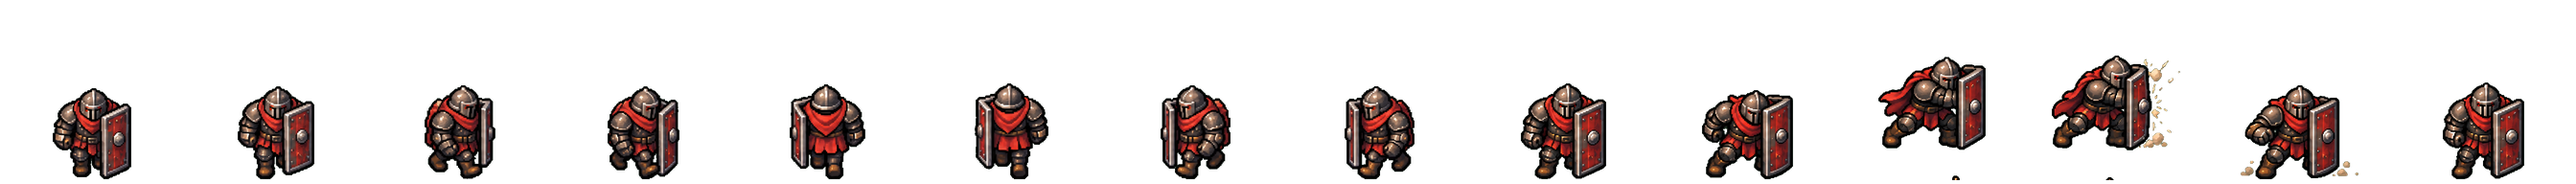
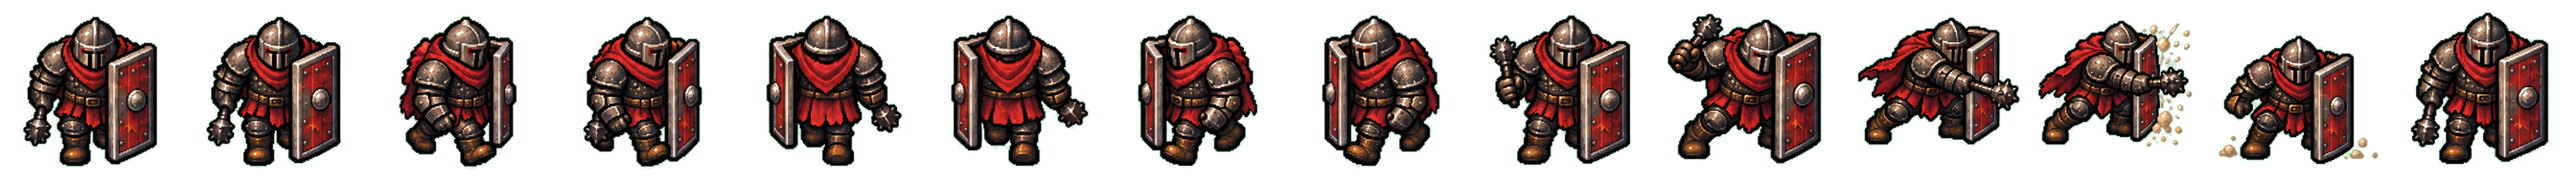
Redesign all character sprites and add P1 action animations

diff --git a/src/render.ts b/src/render.ts
@@ -13,7 +13,7 @@ export class BattleScene extends Phaser.Scene{
  keys=new Set<string>();acc=0;onTick:()=>void;lastUI=0;touch={x:0,y:0};moveTarget?:Point;moveTargetSlot=0;
  online=false;remote=false;localSlot=0;onOnlineInput?:(input:{x:number;y:number})=>void;onOnlineCommand?:(action:Parameters<Simulation['command']>[0])=>void;onOnlineSelect?:(index:number)=>void;
  constructor(sim:Simulation,onTick:()=>void){super('battle');this.sim=sim;this.onTick=onTick;}
- preload(){this.load.image('fixed-map-art','assets/terrain/fixed-map-art.png');for(let player=1;player<=3;player++)this.load.spritesheet(`unit-worker-p${player}`,`assets/characters/animated/worker-p${player}.png`,{frameWidth:192,frameHeight:192});for(const key of ['infantry','heavy','archer','cavalry','air','boss'])this.load.spritesheet(`unit-${key}`,`assets/characters/animated/enemy-${key}.png`,{frameWidth:192,frameHeight:192});}
+ preload(){this.load.image('fixed-map-art','assets/terrain/fixed-map-art.png');for(let player=1;player<=3;player++)this.load.spritesheet(`unit-worker-p${player}`,`assets/characters/animated/worker-p${player}.png`,{frameWidth:192,frameHeight:192});for(const action of ['walk','build','repair'])this.load.spritesheet(`unit-worker-p1-${action}-v2`,`assets/characters/animated/worker-p1-${action}-v2.png`,{frameWidth:160,frameHeight:160});for(const key of ['infantry','heavy','archer','cavalry','air','boss'])this.load.spritesheet(`unit-${key}`,`assets/characters/animated/enemy-${key}.png`,{frameWidth:192,frameHeight:192});}
  create(){this.world=this.add.graphics().setDepth(0);this.actors=this.add.graphics().setDepth(1);this.effects=this.add.graphics().setDepth(3);this.drawMap();
   this.input.keyboard!.on('keydown',(e:KeyboardEvent)=>{if(['INPUT','SELECT','TEXTAREA'].includes((e.target as HTMLElement)?.tagName))return;this.keys.add(e.code);if(e.repeat)return;
    if(['Space','Enter','ArrowUp','ArrowDown','ArrowLeft','ArrowRight'].includes(e.code))e.preventDefault();
@@ -89,8 +89,8 @@ export class BattleScene extends Phaser.Scene{
  bar(g:Phaser.GameObjects.Graphics,x:number,y:number,w:number,h:number,fraction:number,color:number){g.fillStyle(0x11231d,.9).fillRoundedRect(x-1,y-1,w+2,h+2,2);g.fillStyle(color).fillRect(x,y,w*Math.max(0,Math.min(1,fraction)),h);}
  unitImage(key:string,x:number,y:number,height:number,flip=false,frame=0,nominal=192){let image=this.unitImages[this.unitIndex++];if(!image){image=this.add.image(x,y,key,frame).setOrigin(.5,1);this.unitImages.push(image);}else image.setTexture(key,frame);const scale=height/nominal;image.setPosition(x,y).setScale(scale).setFlipX(flip).setAngle(0).setAlpha(1).clearTint().setDepth(1.2+y/(SIZE*TILE)*.4).setVisible(true);return image;}
  walkPose(image:Phaser.GameObjects.Image,facing:Facing,strength=1,phaseTime=this.sim.time){const gait=Math.sin(phaseTime*Math.PI*7),horizontal=facing==='left'||facing==='right';image.y-=Math.abs(gait)*2*strength;if(horizontal)image.x+=gait*.5*strength*(facing==='right'?1:-1);}
- enemyImage(e:Enemy){const s=this.sim,d=ENEMIES[e.kind],target=s.target(e.target),last=this.enemyMotion.get(e.id)??{x:e.x,y:e.y,facing:'down' as Facing,movingUntil:-Infinity},dx=e.x-last.x,dy=e.y-last.y,positionMoving=Math.hypot(dx,dy)>.0005,movingUntil=positionMoving?s.time+.14:last.movingUntil,moving=positionMoving||s.time<movingUntil,attack=enemyAttackFrame(s.time,e.next,e.wind,d.wind,d.interval);let facing=last.facing;if(attack!==null&&target)facing=facingFromInput({x:target.x-e.x,y:target.y-e.y},facing);else if(positionMoving)facing=facingFromInput({x:dx,y:dy},facing);this.enemyMotion.set(e.id,{x:e.x,y:e.y,facing,movingUntil});const heights:Record<string,number>={infantry:51,heavy:55,archer:52,cavalry:64,air:58,boss1:82,boss2:85,boss3:91,boss4:98,boss5:112},nominals:Record<string,number>={infantry:94,heavy:100,archer:102,cavalry:88,air:76,boss:92},key=d.boss?'boss':e.kind,phaseTime=s.time+e.id*.017,step=moving?walkingFrame(phaseTime,{x:1,y:0}):0,frame=attack===null?directionFrame(facing,step):8+attack,flip=attack!==null&&!!target&&target.x<e.x,image=this.unitImage(`unit-${key}`,e.x*TILE,e.y*TILE+18,heights[e.kind],flip,frame,nominals[key]);if(attack===null&&moving)this.walkPose(image,facing,e.kind==='air'?1.15:e.kind==='cavalry'?.8:1,phaseTime);if(attack===null&&moving&&e.kind!=='air'){const trail=facing==='right'?-1:facing==='left'?1:0;this.actors.fillStyle(0xcbb477,.3).fillEllipse(e.x*TILE+trail*10,e.y*TILE+16,step?8:4,2.6);}if(e.flash>s.time)image.setTintFill(0xffe1c5);}
- workerImage(p:Worker,index:number){const s=this.sim,x=p.x*TILE,y=p.y*TILE,last=this.workerMotion.get(p.id)??{x:p.x,y:p.y,facing:this.workerFacing[index],movingUntil:-Infinity},dx=p.x-last.x,dy=p.y-last.y,inputMoving=Math.hypot(p.input.x,p.input.y)>.001,positionMoving=Math.hypot(dx,dy)>.0005,direction=inputMoving?p.input:positionMoving?{x:dx,y:dy}:{x:0,y:0},facing=facingFromInput(direction,last.facing),movingUntil=positionMoving||inputMoving?s.time+.14:last.movingUntil,moving=!p.task&&p.hp>0&&(inputMoving||positionMoving||s.time<movingUntil),step=moving?walkingFrame(s.time,{x:1,y:0}):0;this.workerFacing[index]=facing;this.workerMotion.set(p.id,{x:p.x,y:p.y,facing,movingUntil});const taskFrame=p.task?(p.task.type==='build'?8:12)+loopFrame(s.time,8,4):directionFrame(facing,step),flip=!!p.task&&facing==='left',image=this.unitImage(`unit-worker-p${index+1}`,x,y+19,58,flip,taskFrame,index===0?123:121);if(moving)this.walkPose(image,facing);if(moving){const trail=facing==='right'?-1:facing==='left'?1:0;this.actors.fillStyle(0xd6bd78,.32).fillEllipse(x+trail*11,y+15,step?9:5,3);}if(p.hp<=0)image.setTint(0x77736d).setAlpha(.72);if(s.time>=0&&p.hurtUntil>s.time)image.setTintFill(0xffd1bd);if(s.invincible)this.actors.lineStyle(2,0xf9e6b2,.7+Math.sin(s.time*8)*.2).strokeCircle(x,y-4,27);this.actors.fillStyle(0x16271f,.88).fillRoundedRect(x-15,y-49,30,13,4);this.actors.lineStyle(1.5,p.color,.9).strokeRoundedRect(x-15,y-49,30,13,4);this.labelWorker(x,y-42.5,index);if(p.hp<=0)this.textLabel(x,y+31,'待救援 ◆80','#ffe0a1',10);}
+ enemyImage(e:Enemy){const s=this.sim,d=ENEMIES[e.kind],target=s.target(e.target),last=this.enemyMotion.get(e.id)??{x:e.x,y:e.y,facing:'down' as Facing,movingUntil:-Infinity},dx=e.x-last.x,dy=e.y-last.y,positionMoving=Math.hypot(dx,dy)>.0005,movingUntil=positionMoving?s.time+.14:last.movingUntil,moving=positionMoving||s.time<movingUntil,attack=enemyAttackFrame(s.time,e.next,e.wind,d.wind,d.interval);let facing=last.facing;if(attack!==null&&target)facing=facingFromInput({x:target.x-e.x,y:target.y-e.y},facing);else if(positionMoving)facing=facingFromInput({x:dx,y:dy},facing);this.enemyMotion.set(e.id,{x:e.x,y:e.y,facing,movingUntil});const heights:Record<string,number>={infantry:51,heavy:55,archer:52,cavalry:64,air:58,boss1:82,boss2:85,boss3:91,boss4:98,boss5:112},nominals:Record<string,number>={infantry:160,heavy:160,archer:160,cavalry:170,air:140,boss:165},key=d.boss?'boss':e.kind,phaseTime=s.time+e.id*.017,step=moving?walkingFrame(phaseTime,{x:1,y:0}):0,frame=attack===null?directionFrame(facing,step):8+attack,flip=attack!==null&&!!target&&target.x<e.x,image=this.unitImage(`unit-${key}`,e.x*TILE,e.y*TILE+18,heights[e.kind],flip,frame,nominals[key]);if(attack===null&&moving&&e.kind==='air')this.walkPose(image,facing,.7,phaseTime);if(attack===null&&moving&&e.kind!=='air'){const trail=facing==='right'?-1:facing==='left'?1:0;this.actors.fillStyle(0xcbb477,.3).fillEllipse(e.x*TILE+trail*10,e.y*TILE+16,step?8:4,2.6);}if(e.flash>s.time)image.setTintFill(0xffe1c5);}
+ workerImage(p:Worker,index:number){const s=this.sim,x=p.x*TILE,y=p.y*TILE,last=this.workerMotion.get(p.id)??{x:p.x,y:p.y,facing:this.workerFacing[index],movingUntil:-Infinity},dx=p.x-last.x,dy=p.y-last.y,inputMoving=Math.hypot(p.input.x,p.input.y)>.001,positionMoving=Math.hypot(dx,dy)>.0005,direction=inputMoving?p.input:positionMoving?{x:dx,y:dy}:{x:0,y:0},facing=facingFromInput(direction,last.facing),movingUntil=positionMoving||inputMoving?s.time+.14:last.movingUntil,moving=!p.task&&p.hp>0&&(inputMoving||positionMoving||s.time<movingUntil),step=moving?walkingFrame(s.time,{x:1,y:0}):0,horizontal=facing==='left'||facing==='right';this.workerFacing[index]=facing;this.workerMotion.set(p.id,{x:p.x,y:p.y,facing,movingUntil});let texture=`unit-worker-p${index+1}`,frame=p.task?(p.task.type==='build'?8:12)+loopFrame(s.time,8,4):directionFrame(facing,step),flip=!!p.task&&facing==='left',nominal=index===0?123:160;if(index===0&&p.task){texture=`unit-worker-p1-${p.task.type}-v2`;frame=loopFrame(s.time,10,8);nominal=113;}else if(index===0&&moving&&horizontal){texture='unit-worker-p1-walk-v2';frame=loopFrame(s.time,10,8);flip=facing==='left';nominal=113;}const image=this.unitImage(texture,x,y+19,58,flip,frame,nominal);if(moving&&!horizontal)this.walkPose(image,facing,.55);if(moving){const trail=facing==='right'?-1:facing==='left'?1:0;this.actors.fillStyle(0xd6bd78,.32).fillEllipse(x+trail*11,y+15,step?9:5,3);}if(p.hp<=0)image.setTint(0x77736d).setAlpha(.72);if(s.time>=0&&p.hurtUntil>s.time)image.setTintFill(0xffd1bd);if(s.invincible)this.actors.lineStyle(2,0xf9e6b2,.7+Math.sin(s.time*8)*.2).strokeCircle(x,y-4,27);this.actors.fillStyle(0x16271f,.88).fillRoundedRect(x-15,y-49,30,13,4);this.actors.lineStyle(1.5,p.color,.9).strokeRoundedRect(x-15,y-49,30,13,4);this.labelWorker(x,y-42.5,index);if(p.hp<=0)this.textLabel(x,y+31,'待救援 ◆80','#ffe0a1',10);}
  tower(g:Phaser.GameObjects.Graphics,t:Building){const x=t.x*TILE,y=t.y*TILE,d=TOWERS[t.kind];g.fillStyle(0x10241b,.52).fillEllipse(x+3,y+16,42,15);
   if(t.progress<1){g.fillStyle(0x27372f).fillRoundedRect(x-17,y-15,34,32,3);g.fillStyle(0x8e7048).fillRect(x-14,y-12,28,27);g.lineStyle(4,0x4c3928).strokeRect(x-17,y-22,34,39).lineBetween(x-16,y-21,x+16,y+16).lineBetween(x+16,y-21,x-16,y+16);g.lineStyle(2,0xd5b16b).strokeRect(x-15,y-20,30,35);g.fillStyle(0xf0c563).fillRect(x-20,y-25,40,6);g.fillStyle(0x5b4933).fillCircle(x-12,y-22,2).fillCircle(x+12,y-22,2);return;}
   g.fillStyle(0x34463e).fillRoundedRect(x-20,y+2,40,19,4);g.fillStyle(0x778279).fillRoundedRect(x-18,y-1,36,13,3);g.lineStyle(1,0xb4b9a7,.52).lineBetween(x-15,y+2,x+15,y+2);g.fillStyle(0x273930).fillRect(x-14,y+12,28,6);

diff --git a/围城工匠-角色与建筑属性补充设计-v0.24.md b/围城工匠-角色与建筑属性补充设计-v0.24.md
@@ -48,13 +48,15 @@
 >
 > v0.23动画图集落地：佣工统一改为中世纪石匠/木匠/铁匠，每人16帧；六类敌军每类14帧。敌军攻击动画的第1～3帧覆盖前摇，第4帧对应伤害或箭矢发射，第5～6帧覆盖剩余攻击周期；远端压缩快照只使用已同步的wind播放前摇，命中后由弹道与受击反馈接续。
 
-> v0.24固定地图数据：32 × 32地图改为1024格显式配置，每格记录地形、高度、坡道、材质变化和玩法效果。客户端重开、联机房主与实时加入者使用同一份地图；移动、建造、流场、视线、弹道和小地图共用格子效果。坡道可通行但禁止建造。
+> v0.24固定地图数据：地图画面改为一张1344 × 1344完整手绘底图，不再按格拼接材质。32 × 32隐藏逻辑层保留1024格显式配置，每格记录地形、高度、坡道和玩法效果。客户端重开、联机房主与实时加入者使用同一份地图；移动、建造、流场、视线、弹道和小地图共用格子效果。坡道可通行但禁止建造。
+
+> 当前美术修订：P1新增8帧侧向行走、8帧建造和8帧维修专用图集；P2、P3和六类敌军全量重绘。重绘只替换渲染资源，不调整实体半径、移速、攻击范围、前摇、命中帧或伤害值。
 
 ## 1. 文档定位与数值来源
 
 本文件独立记录玩家、普通敌军、BOSS、已完成建筑和施工工地的属性，作为主策划案的补充设计。主案负责玩法流程，本文件集中提供属性口径、完整成长表和战斗参数。
 
-固定战场尺寸为32 × 32格。地图实体坐标的合法范围以此尺寸为准；空军与地面单位仍分别使用独立碰撞层。建筑不设玩法数量上限，实际可用数量由可建造格、占地和资源决定；单位半径、攻击距离和技能范围不因地图缩小而改变。地图不再由算法绘制；版本内的1024个格子都是固定数据，并各自持有0～3号材质变化编号。
+固定战场尺寸为32 × 32格，对应1344 × 1344像素完整底图。地图实体坐标的合法范围以此尺寸为准；空军与地面单位仍分别使用独立碰撞层。建筑不设玩法数量上限，实际可用数量由可建造格、占地和资源决定；单位半径、攻击距离和技能范围不因地图缩小而改变。地图不再由算法绘制；1024个格子只承担固定玩法数据，不再持有或选择美术材质变化。
 
 ### 1.1 固定格效果表
 
@@ -217,21 +219,24 @@
 | 类型 | 主轮廓 | 主色与材质 | 小尺寸识别点 |
 |---|---|---|---|
 | P1石匠 | 布帽、亚麻头巾、石匠大锤 | 黄褐羊毛衣、皮围裙 | 方头石锤与黄色编号框 |
-| P2木匠 | 青色兜帽、木工锛、背带 | 青色羊毛衣、皮工具带 | 木工锛与青色编号框 |
-| P3铁匠 | 深色头巾、铁匠锤、工具包 | 紫色羊毛衣、焦黑皮围裙 | 锻造锤与紫色编号框 |
-| 步兵 | 剑与小型矩形盾 | 红布、铁盔、木盾 | 盾牌在身体一侧形成色块 |
-| 重装兵 | 宽身躯与塔盾 | 暗钢、铆钉、红色盾面 | 体宽和盾面明显大于步兵 |
-| 弓箭手 | 兜帽、长弓、箭囊 | 暗红布、木弓 | 弓的弧线高于身体 |
-| 骑兵 | 坐骑、骑手、长矛 | 棕色坐骑、铁盔、红披肩 | 横向长体型与长矛 |
-| 空军 | 双翼、悬空身体、地面影子 | 暗翼、红色翼膜 | 本体与影子明显分离 |
-| BOSS | 放大重甲、角盔、重型武器 | 黑铁、红披风、暖色眼光 | 体型、头顶角和巨型武器 |
+| P2木匠 | 深蓝兜帽、木工锛、折叠锯、背带 | 蓝色短工装、棕色皮具 | 木工锛与青色编号框 |
+| P3铁匠 | 紫色头巾、锻造锤、火钳、工具包 | 紫色羊毛衣、焦黑皮围裙 | 敦实体型与紫色编号框 |
+| 步兵 | 水壶盔、短刀与小圆盾 | 锈红围巾、补丁棉甲、旧铁 | 轻装身形和圆盾色块 |
+| 重装兵 | 宽身躯、塔盾与短锤 | 黑铁札甲、铆钉、红色盾面 | 体宽和盾面明显大于步兵 |
+| 弓箭手 | 酒红兜帽、长弓、箭囊 | 暗红布、白蜡弓、浅色箭羽 | 弓的弧线高于身体 |
+| 骑兵 | 紧凑棕马、骑手、枪旗长矛 | 棕色马甲、铁盔、血红披肩 | 横向长体型、红旗与长矛 |
+| 空军 | 石像鬼双翼、悬空身体、钩爪 | 炭黑皮肤、猩红翼膜、铁肩甲 | 张翼轮廓且不绘地面影子 |
+| BOSS | 放大重甲、角盔、方头巨锤 | 黑铁、黄铜铆钉、破损深红披风 | 体型、头顶角和巨型武器 |
 
 所有美术外轮廓仅用于视觉表现；碰撞继续使用本文件中的圆形半径或1×1格建筑占地。远端客户端只同步状态，继续在本地按同一绘制规则生成形象。
 ### 3.5 栅格素材显示参数
 
 | 素材 | 文件 | 实机显示高度 |
 |---|---|---:|
-| P1/P2/P3佣工 | `animated/worker-p{1～3}.png`，每张16帧 | 58 px |
+| P1石匠基础朝向 | `animated/worker-p1.png`，16帧 | 58 px |
+| P1侧向行走 | `animated/worker-p1-walk-v2.png`，8帧；向左镜像 | 58 px |
+| P1建造 / 维修 | `animated/worker-p1-build-v2.png`、`worker-p1-repair-v2.png`，各8帧 | 58 px |
+| P2/P3佣工 | `animated/worker-p{2～3}.png`，每张16帧 | 58 px |
 | 步兵 | `animated/enemy-infantry.png`，14帧 | 51 px |
 | 重装兵 | `animated/enemy-heavy.png`，14帧 | 55 px |
 | 弓箭手 | `animated/enemy-archer.png`，14帧 | 52 px |
@@ -239,7 +244,7 @@
 | 空军 | `animated/enemy-air.png`，14帧 | 58 px |
 | BOSS | `animated/enemy-boss.png`，14帧 | 82～112 px，按BOSS种类递增 |
 
-素材统一使用透明PNG、底部中心锚点和原稿内置接触阴影。佣工按下、右、上、左四向直接选帧，每向两帧以7次/秒交替；停止后保留最后朝向。斜向移动以绝对值更大的输入轴决定方向，绝对值相同时采用纵向。朝向与步态不改变碰撞半径；受击染色和阵亡去色均由渲染器临时处理，不修改源图。 佣工图集第0～7帧为移动、第8～11帧为建造、第12～15帧为修复，作业循环为8帧/秒。敌军图集第0～7帧为移动、第8～13帧为攻击；攻击前三帧映射前摇，第4帧映射命中或发射，后两帧映射剩余攻击周期。移动与攻击动画只改变表现，不改变碰撞、移速、攻击范围、前摇或伤害结算。
+素材统一使用透明PNG、底部中心锚点、暗棕轮廓和左上方光源。P1水平移动以10帧/秒播放8帧侧向步态，向左镜像；建造与维修也各以10帧/秒播放独立8帧序列。P1上下移动及P2、P3仍按下、右、上、左四向直接选帧，每向两帧交替；停止后保留最后朝向。斜向移动以绝对值更大的输入轴决定方向，绝对值相同时采用纵向。地面单位左右移动不附加额外画面上下位移，重心和脚步只由序列帧表达。敌军图集第0～7帧为移动、第8～13帧为攻击；攻击前三帧映射前摇，第4帧映射命中或发射，后两帧映射剩余攻击周期。朝向、步态、受击染色和阵亡去色只改变表现，不改变碰撞、移速、攻击范围、前摇或伤害结算。
 ## 4. 普通敌军
 
 ### 4.1 类型基础属性

diff --git a/docs/角色与建筑属性补充设计-v0.24.md b/docs/角色与建筑属性补充设计-v0.24.md
@@ -50,6 +50,8 @@
 
 > v0.24固定地图数据：地图画面改为一张1344 × 1344完整手绘底图，不再按格拼接材质。32 × 32隐藏逻辑层保留1024格显式配置，每格记录地形、高度、坡道和玩法效果。客户端重开、联机房主与实时加入者使用同一份地图；移动、建造、流场、视线、弹道和小地图共用格子效果。坡道可通行但禁止建造。
 
+> 当前美术修订：P1新增8帧侧向行走、8帧建造和8帧维修专用图集；P2、P3和六类敌军全量重绘。重绘只替换渲染资源，不调整实体半径、移速、攻击范围、前摇、命中帧或伤害值。
+
 ## 1. 文档定位与数值来源
 
 本文件独立记录玩家、普通敌军、BOSS、已完成建筑和施工工地的属性，作为主策划案的补充设计。主案负责玩法流程，本文件集中提供属性口径、完整成长表和战斗参数。
@@ -217,21 +219,24 @@
 | 类型 | 主轮廓 | 主色与材质 | 小尺寸识别点 |
 |---|---|---|---|
 | P1石匠 | 布帽、亚麻头巾、石匠大锤 | 黄褐羊毛衣、皮围裙 | 方头石锤与黄色编号框 |
-| P2木匠 | 青色兜帽、木工锛、背带 | 青色羊毛衣、皮工具带 | 木工锛与青色编号框 |
-| P3铁匠 | 深色头巾、铁匠锤、工具包 | 紫色羊毛衣、焦黑皮围裙 | 锻造锤与紫色编号框 |
-| 步兵 | 剑与小型矩形盾 | 红布、铁盔、木盾 | 盾牌在身体一侧形成色块 |
-| 重装兵 | 宽身躯与塔盾 | 暗钢、铆钉、红色盾面 | 体宽和盾面明显大于步兵 |
-| 弓箭手 | 兜帽、长弓、箭囊 | 暗红布、木弓 | 弓的弧线高于身体 |
-| 骑兵 | 坐骑、骑手、长矛 | 棕色坐骑、铁盔、红披肩 | 横向长体型与长矛 |
-| 空军 | 双翼、悬空身体、地面影子 | 暗翼、红色翼膜 | 本体与影子明显分离 |
-| BOSS | 放大重甲、角盔、重型武器 | 黑铁、红披风、暖色眼光 | 体型、头顶角和巨型武器 |
+| P2木匠 | 深蓝兜帽、木工锛、折叠锯、背带 | 蓝色短工装、棕色皮具 | 木工锛与青色编号框 |
+| P3铁匠 | 紫色头巾、锻造锤、火钳、工具包 | 紫色羊毛衣、焦黑皮围裙 | 敦实体型与紫色编号框 |
+| 步兵 | 水壶盔、短刀与小圆盾 | 锈红围巾、补丁棉甲、旧铁 | 轻装身形和圆盾色块 |
+| 重装兵 | 宽身躯、塔盾与短锤 | 黑铁札甲、铆钉、红色盾面 | 体宽和盾面明显大于步兵 |
+| 弓箭手 | 酒红兜帽、长弓、箭囊 | 暗红布、白蜡弓、浅色箭羽 | 弓的弧线高于身体 |
+| 骑兵 | 紧凑棕马、骑手、枪旗长矛 | 棕色马甲、铁盔、血红披肩 | 横向长体型、红旗与长矛 |
+| 空军 | 石像鬼双翼、悬空身体、钩爪 | 炭黑皮肤、猩红翼膜、铁肩甲 | 张翼轮廓且不绘地面影子 |
+| BOSS | 放大重甲、角盔、方头巨锤 | 黑铁、黄铜铆钉、破损深红披风 | 体型、头顶角和巨型武器 |
 
 所有美术外轮廓仅用于视觉表现；碰撞继续使用本文件中的圆形半径或1×1格建筑占地。远端客户端只同步状态，继续在本地按同一绘制规则生成形象。
 ### 3.5 栅格素材显示参数
 
 | 素材 | 文件 | 实机显示高度 |
 |---|---|---:|
-| P1/P2/P3佣工 | `animated/worker-p{1～3}.png`，每张16帧 | 58 px |
+| P1石匠基础朝向 | `animated/worker-p1.png`，16帧 | 58 px |
+| P1侧向行走 | `animated/worker-p1-walk-v2.png`，8帧；向左镜像 | 58 px |
+| P1建造 / 维修 | `animated/worker-p1-build-v2.png`、`worker-p1-repair-v2.png`，各8帧 | 58 px |
+| P2/P3佣工 | `animated/worker-p{2～3}.png`，每张16帧 | 58 px |
 | 步兵 | `animated/enemy-infantry.png`，14帧 | 51 px |
 | 重装兵 | `animated/enemy-heavy.png`，14帧 | 55 px |
 | 弓箭手 | `animated/enemy-archer.png`，14帧 | 52 px |
@@ -239,7 +244,7 @@
 | 空军 | `animated/enemy-air.png`，14帧 | 58 px |
 | BOSS | `animated/enemy-boss.png`，14帧 | 82～112 px，按BOSS种类递增 |
 
-素材统一使用透明PNG、底部中心锚点和原稿内置接触阴影。佣工按下、右、上、左四向直接选帧，每向两帧以7次/秒交替；停止后保留最后朝向。斜向移动以绝对值更大的输入轴决定方向，绝对值相同时采用纵向。朝向与步态不改变碰撞半径；受击染色和阵亡去色均由渲染器临时处理，不修改源图。 佣工图集第0～7帧为移动、第8～11帧为建造、第12～15帧为修复，作业循环为8帧/秒。敌军图集第0～7帧为移动、第8～13帧为攻击；攻击前三帧映射前摇，第4帧映射命中或发射，后两帧映射剩余攻击周期。移动与攻击动画只改变表现，不改变碰撞、移速、攻击范围、前摇或伤害结算。
+素材统一使用透明PNG、底部中心锚点、暗棕轮廓和左上方光源。P1水平移动以10帧/秒播放8帧侧向步态，向左镜像；建造与维修也各以10帧/秒播放独立8帧序列。P1上下移动及P2、P3仍按下、右、上、左四向直接选帧，每向两帧交替；停止后保留最后朝向。斜向移动以绝对值更大的输入轴决定方向，绝对值相同时采用纵向。地面单位左右移动不附加额外画面上下位移，重心和脚步只由序列帧表达。敌军图集第0～7帧为移动、第8～13帧为攻击；攻击前三帧映射前摇，第4帧映射命中或发射，后两帧映射剩余攻击周期。朝向、步态、受击染色和阵亡去色只改变表现，不改变碰撞、移速、攻击范围、前摇或伤害结算。
 ## 4. 普通敌军
 
 ### 4.1 类型基础属性

diff --git a/实现与验证记录.md b/实现与验证记录.md
@@ -207,3 +207,11 @@
 - 常规快照由10Hz调整为8Hz，敌军超过250名时由4Hz调整为3Hz；远端操作仍强制房主即时发送确认快照。
 - 联机快照裁掉远端不使用的敌人AI/抗性/技能字段、弹道伤害包和批次兵种数组；1944名敌人的压力快照由约703KB降到352KB。
 - 压力测试中，1944名敌人的远端一秒插值计算约0.15ms；旧完整战斗模拟中，928名敌人的一秒计算约630ms。三账号联机与单机/同屏浏览器回归无脚本错误。
+
+## 2026-09-16 · 全角色重绘与P1八帧动作
+
+- P1接入已确认的8帧侧向行走、8帧建造和8帧维修图集，按10帧/秒播放；向左镜像行走序列，上下移动继续使用基础四向帧。
+- P2木匠、P3铁匠及步兵、重装兵、弓箭手、骑兵、空军和BOSS全部重绘，统一暗棕轮廓、左上方光源、底部中心锚点和中世纪装备语言。
+- 保留P2/P3的16帧契约及敌军14帧契约，敌军攻击第4帧仍对应实际命中或发射，因此没有改动碰撞、移速、射程、攻击前摇和伤害结算。
+- 地面单位取消额外的水平移动上下弹跳，左右重心与脚步由素材帧直接表达；按各图集实际轮廓高度重新校准实机显示比例。
+- `npm run build`、80项自动化测试与Chrome桌面/移动端浏览器QA通过；P1左右移动抽样覆盖完整8帧，页面无脚本错误，三人同屏与全兵种战斗场景通过实机检查。

diff --git a/docs/concepts/worker-p1-actions-redesign-v2/动作设计说明-v2.md b/docs/concepts/worker-p1-actions-redesign-v2/动作设计说明-v2.md
@@ -1,0 +1,8 @@
+# 主角动作重设计 v2（评审稿）
+
+- 规格：每套 8 帧，单帧 160×160，透明 PNG 横向图集，底部居中锚点。
+- 播放建议：100 ms/帧，循环播放；建造和维修可在一次循环结束时结算一次动作事件。
+- 行走：脚跟接触 → 承重下沉 → 后腿经过 → 脚尖蹬地，左右腿交替；锤子贴近身体，空闲手反向摆动。
+- 建造：高举锤 → 全身下压 → 明确撞击 → 回收起身。脚部保持支撑，冲击帧可绑定施工音效与尘屑。
+- 维修：全程保持低姿态，短距离轻敲与校准检查交替；不使用过头挥锤，与建造动作形成明确区分。
+- 当前状态：仅供确认，尚未替换游戏运行资源。
